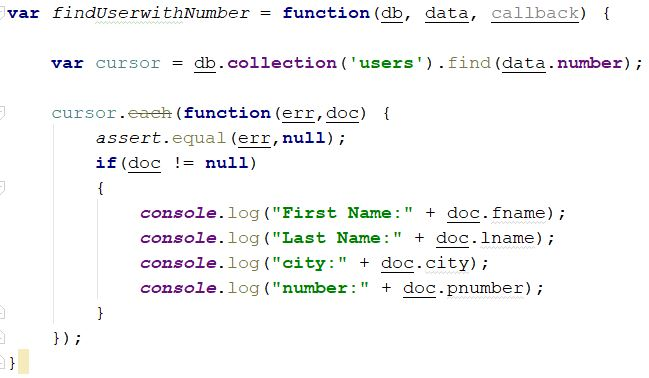
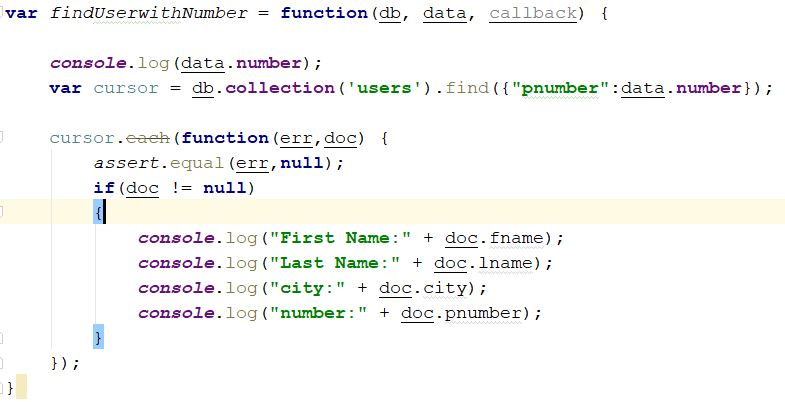
Images Demo

diff --git a/ICP9/CS5551-Tutorial-IX/MongoRestApplication/Node/mongo.js b/ICP9/CS5551-Tutorial-IX/MongoRestApplication/Node/mongo.js
@@ -54,7 +54,8 @@ var insertDocument = function(db, data, callback) {
 
 var findUserwithNumber = function(db, data, callback) {
 
-    var cursor = db.collection('users').find(data.number);
+    console.log(data.number);
+    var cursor = db.collection('users').find({"pnumber":data.number});
 
     cursor.each(function(err,doc) {
         assert.equal(err,null);
